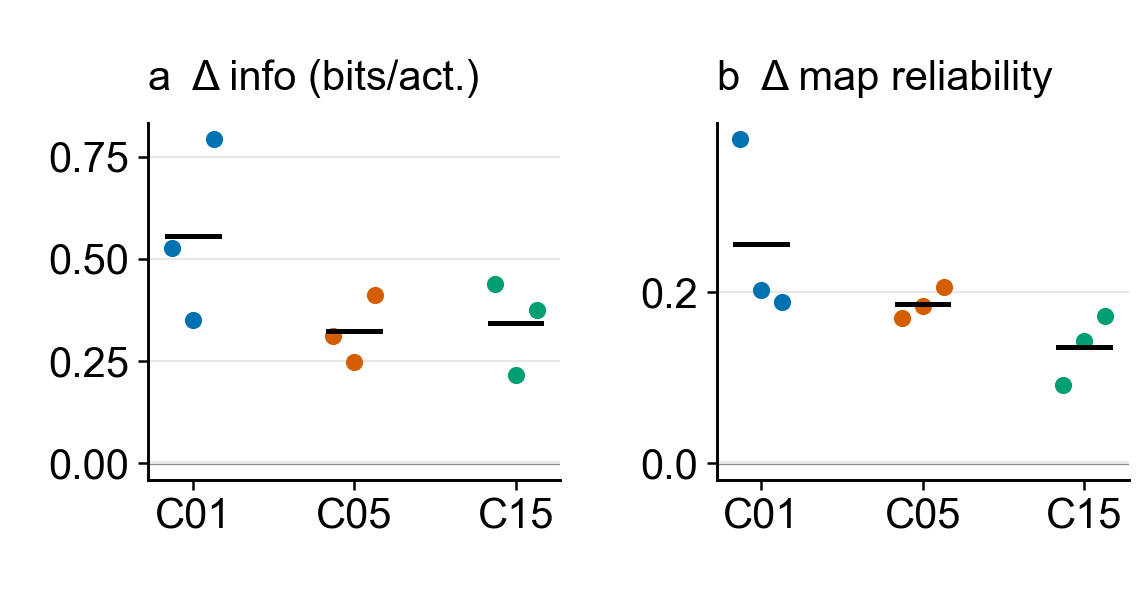
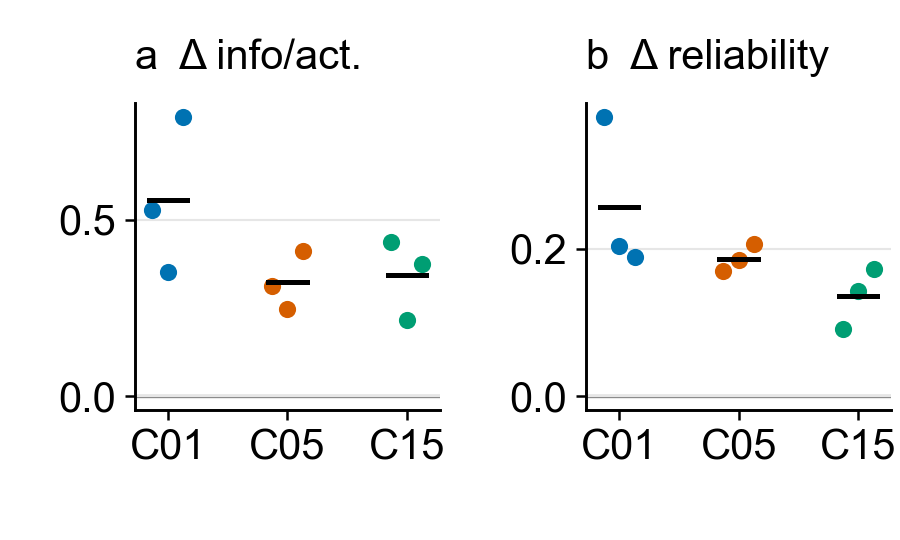
Define COSYNE figure standard and resize behavior panels

diff --git a/06_experiments/cosyne_2027/render_compact_figures.py b/06_experiments/cosyne_2027/render_compact_figures.py
@@ -33,6 +33,7 @@ SOURCES = {
 COLORS = {"C01": "#0072B2", "C05": "#D55E00", "C15": "#009E73"}
 FACTOR_ORDER = ("C01", "C05 · temporal hit", "C05 · constant hit", "C15")
 FACTOR_LABELS = ("C01", "C05 T", "C05 C", "C15")
+BEHAVIOR_PANEL_SIZE_IN = (1.5, 1.8)
 
 
 def style() -> str:
@@ -102,11 +103,12 @@ def online_course(data: pd.DataFrame) -> None:
 
 
 def behavior_expression(data: pd.DataFrame) -> None:
-    fig, axes = plt.subplots(1, 2, figsize=(3.8, 2.05))
-    fig.subplots_adjust(left=0.13, right=0.99, bottom=0.22, top=0.80, wspace=0.38)
+    fig, axes = plt.subplots(1, 2, figsize=(2 * BEHAVIOR_PANEL_SIZE_IN[0],
+                                            BEHAVIOR_PANEL_SIZE_IN[1]))
+    fig.subplots_adjust(left=0.15, right=0.99, bottom=0.24, top=0.81, wspace=0.48)
     specs = (
-        ("bits_per_activation", "a  Δ info (bits/act.)"),
-        ("split_half_map_correlation", "b  Δ map reliability"),
+        ("bits_per_activation", "a  Δ info/act."),
+        ("split_half_map_correlation", "b  Δ reliability"),
     )
     for ax, (metric, label) in zip(axes, specs):
         rows = data[(data.layer == "decoder_1") & (data.metric == metric)]
@@ -177,9 +179,11 @@ def main() -> None:
     encoder_credit(tables["encoder"], tables["peaks"])
     worker_bonus(tables["online_pairs"])
     metadata = {
-        "schema": "cosyne27_compact_figures_v2", "font": "Arial",
+        "schema": "cosyne27_compact_figures_v3", "font": "Arial",
         "verified_font_file": font_path, "font_pt": 10,
-        "width_inches_per_panel": 1.9, "unit_of_replication": "training seed",
+        "default_width_inches_per_panel": 1.9,
+        "behavior_panel_size_inches": BEHAVIOR_PANEL_SIZE_IN,
+        "unit_of_replication": "training seed",
         "matplotlib_version": matplotlib.__version__,
         "pandas_version": pd.__version__,
         "mean_marker": "black horizontal line; individual seeds are colored points",

diff --git a/06_experiments/cosyne_2027/FIGURE_STANDARD.md b/06_experiments/cosyne_2027/FIGURE_STANDARD.md
@@ -1,0 +1,26 @@
+# COSYNE 2027 figure standard
+
+Use this as the starting layout for figures intended for the two-page US-letter abstract. The [question index](README.md) sets the figure order, and [the compact renderer](render_compact_figures.py) is the current executable reference. Larger diagnostic plots remain available in the source analyses.
+
+## Physical layout and typography
+
+| Figure type | Panel size at final placement | Type |
+| --- | --- | --- |
+| Behavior-expression paired-seed dot plot | 1.5 × 1.8 inches | Arial, 10 pt for titles, axes, ticks, and annotations |
+| Denser factorized contrasts or learning curve | Up to 1.9 inches wide per panel; set height from content | Arial, 10 pt |
+
+Render at the **final physical size**. Do not make a large plot and shrink it into the abstract. Verify that Arial resolves to an installed scalable TTF/OTF font; fail explicitly if it does not. Keep titles and axis labels short in the panel, with full metric definitions in the caption. Give each panel one comparison, align neighboring axes, and leave enough space for 10 pt tick labels without clipping or overlap. The current behavior-expression pair is 3.0 × 1.8 inches in total.
+
+## Evidence encoding
+
+- Paired training seeds are individual colored dots; a short black segment marks their mean. A gray horizontal line marks zero difference. State the contrast direction in the caption.
+- Keep the training seed as the independent unit. Average evaluation repeats within that seed; show the actual $n$ for each factor cell. Show missing cells rather than silently dropping an architecture or manipulation.
+- For learning curves, use environment steps on the horizontal axis, unsmoothed seed means, and a translucent $\pm1$ SEM band. Define interpolation and support in the caption.
+- Use the same factor names, colors, and metric direction across panels. Make signs readable in grayscale through the zero line, marker positions, and direct labels.
+- State whether measurements use each policy's own observations, a common observation panel, or shared occupied bins. Do not merge these protocols into one effect estimate.
+
+## Files and review
+
+Save editable SVG and a 300-dpi PNG preview from the same renderer. Preserve vector text, deterministic SVG IDs and metadata, the exact source CSV paths and hashes, font path, physical size, and software versions in the figure manifest. Use only cached analysis tables for layout revisions; a style change should not trigger new telemetry.
+
+Before committing, inspect the exported PNG at its expected display size and check clipped glyphs, tick collisions, empty panels, data hidden by labels, and a sensible zero/reference line. Verify the PNG pixel dimensions against the declared inches and dpi, and check that source-table hashes have not changed. When evidence changes, update the question report and caption together with the plot.

diff --git a/06_experiments/cosyne_2027/README.md b/06_experiments/cosyne_2027/README.md
@@ -13,6 +13,8 @@ This is the entry point for the [original two-page abstract outline](../../99_in
 
 **Source analyses:** [Online W&B and frozen-policy secondary readouts](online_and_behavior_analysis_20261011.md) · [Retained-snapshot peak spread and cutoff sensitivity](snapshot_peak_spread_20261011.md) · [Frozen-checkpoint policy-specific and identical-observation fields](checkpoint_fields_20261011.md). These remain as provenance and full candidate-plot reports; the ordered question reports are the reading path for the abstract. [Compact plotting code](render_compact_figures.py) reads only cached CSVs, with [source hashes and figure specifications](../results/cosyne_2027_compact_figures/manifest.json).
 
+The [figure standard](FIGURE_STANDARD.md) records final-size panel dimensions, Arial 10 pt typography, seed-level encoding, provenance, and visual review checks. Simple behavior-expression dot panels use 1.5 × 1.8 inches.
+
 The [training attempt catalog](training_runs.csv) joins old and new production runs by explicit family, seed, factors, StudySpec fingerprint, job ID, replacement lineage, and NEMO2 run directory. The [frozen-policy evaluation catalog](frozen_policy_evaluations.csv) joins all 54 own-policy/random-policy probes to their nine September parent checkpoints. Regenerate both with `python -m 06_experiments.cosyne_2027.build_run_index` from the repository root. These catalogs contain paths and provenance, not copied checkpoints. Bulk checkpoints and raw telemetry remain in their NEMO2 workspaces.
 
 ## Run cohorts and source boundaries

diff --git a/infra.md b/infra.md
@@ -2075,11 +2075,13 @@ For each finding, record:
   the submission size. Organizing by data source also made the narrative order
   hard to review against the abstract bullets.
 - **Improvement/status:** A cached-CSV-only [compact renderer](06_experiments/cosyne_2027/render_compact_figures.py)
-  now generates 1.9-inch-per-panel Arial 10-point plots with short in-panel
+  now generates final-size Arial 10-point plots with short in-panel
   titles, direct line labels, paired-seed dots, and factorized arms. The
   [question index](06_experiments/cosyne_2027/README.md#scientific-questions-in-outline-order)
   links them in outline order; source-analysis reports remain available.
-  The renderer records source hashes and font path in its manifest. This is a
+  The [figure standard](06_experiments/cosyne_2027/FIGURE_STANDARD.md) records
+  a 1.5 × 1.8-inch behavior-dot panel and up to 1.9-inch denser panels. The
+  renderer records source hashes, font path, and physical sizes in its manifest. This is a
   local study adapter because the standardized study and telemetry contracts
   already supply the underlying analysis tables.
 - **Acceptance:** The five compact PNGs have their declared physical sizes,

diff --git a/06_experiments/cosyne_2027/02_behavior_expression.md b/06_experiments/cosyne_2027/02_behavior_expression.md
@@ -12,4 +12,4 @@
 
 **Causal scope:** The intervention changes executed actions with the model frozen. It demonstrates behavior-dependent *expression* of the learned code, not that the behavior caused the weights to develop. Decoder-1 information per activation is the clean headline; reliability is a candidate corroboration with the occupancy caveat.
 
-**Plot contract:** Two 1.9-inch panels, Arial 10 pt. Colored dots are training-seed differences and black segments are means; zero is no own/random difference. Regenerate from [cached inputs](../results/cosyne_2027_compact_figures/manifest.json) with [the compact renderer](render_compact_figures.py).
+**Plot contract:** Two 1.5 × 1.8-inch panels, Arial 10 pt, following the [COSYNE figure standard](FIGURE_STANDARD.md). Colored dots are training-seed differences and black segments are means; zero is no own/random difference. Regenerate from [cached inputs](../results/cosyne_2027_compact_figures/manifest.json) with [the compact renderer](render_compact_figures.py).
